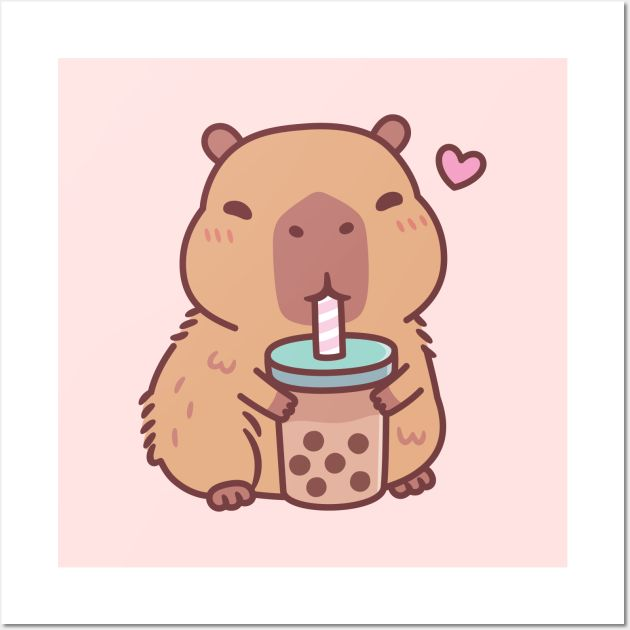
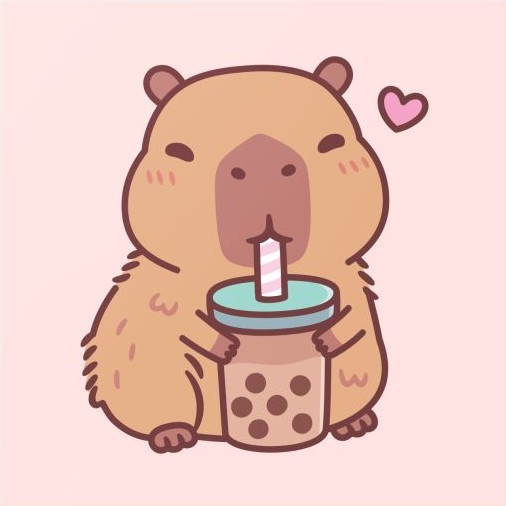
more image adjustments

diff --git a/Extension/options.css b/Extension/options.css
@@ -97,7 +97,7 @@ body {
 
 .health-bar-fill {
   height: 100%;
-  background: #419741;
+  background: #5cb85c/*#419741*/;
   border-radius: 4px;
   transition: width 0.4s ease;
   min-width: 2px;
@@ -343,7 +343,7 @@ body {
   background-image: url("./assets/grass.png");
   background-repeat: repeat-x;
   background-position: bottom;
-  background-size: auto 250px;
+  background-size: auto 500px; /* 250px for grass2 */
 
   position: relative;
   z-index: 3;

diff --git a/Extension/popup.html b/Extension/popup.html
@@ -11,7 +11,7 @@
       <img src="assets/arrow.png" alt="Options">
     </button>
     <div id="petContainer">
-      <img id="petImage" src="assets/icon.png" alt="Tamagotcha Pet">
+      <img id="petImage" src="assets/happy_pet.jpg" alt="Tamagotcha Pet">
       <div class="health-bar-container">
         <div class="health-bar-track">
           <div id="healthBarFill" class="health-bar-fill"></div>

diff --git a/Extension/options.html b/Extension/options.html
@@ -22,7 +22,7 @@
 
     <!-- Center: Pet + Timer -->
     <div class="panel main-panel">
-      <img id="petImage" src="assets/icon.png" alt="Capy" class="pet-image">
+      <img id="petImage" src="assets/happy_pet.jpg" alt="Capy" class="pet-image">
       <div class="health-bar-wrap">
         <div class="health-bar-track">
           <div id="healthBar" class="health-bar-fill"></div>

diff --git a/Extension/popup.js b/Extension/popup.js
@@ -269,7 +269,7 @@ function updatePetUI(pet) {
     petImage.src = 'assets/pet_sad.png';
     if (reviveBtn) reviveBtn.style.display = 'none';
   } else {
-    petImage.src = 'assets/icon.png';
+    petImage.src = 'assets/happy_pet.jpg';
     if (reviveBtn) reviveBtn.style.display = 'none';
   }
 }

diff --git a/Extension/options.js b/Extension/options.js
@@ -71,7 +71,7 @@ function renderPet() {
     petImage.src = 'assets/pet_sad.png';
     if (reviveBtn) reviveBtn.style.display = 'none';
   } else {
-    petImage.src = 'assets/icon.png';
+    petImage.src = 'assets/happy_pet.jpg';
     if (reviveBtn) reviveBtn.style.display = 'none';
   }
 }

diff --git a/Extension/frontendAI/optionsAI.html b/Extension/frontendAI/optionsAI.html
@@ -12,7 +12,7 @@
   <div class="layout">
     <nav class="sidebar">
       <div class="brand">
-        <img src="assets/icon.png" alt="Icon">
+        <img src="assets/happy_pet.jpg" alt="Icon">
         <h2>Focus Pet</h2>
       </div>
       <ul class="nav-links">

diff --git a/Extension/popup.css b/Extension/popup.css
@@ -70,7 +70,7 @@
   width: 100%;
   min-width: 4px;
   height: 100%;
-  background: #419741;
+  background: #5cb85c;
   border-radius: 999px;
   transition: width 0.2s ease;
   transform-origin: left center;
